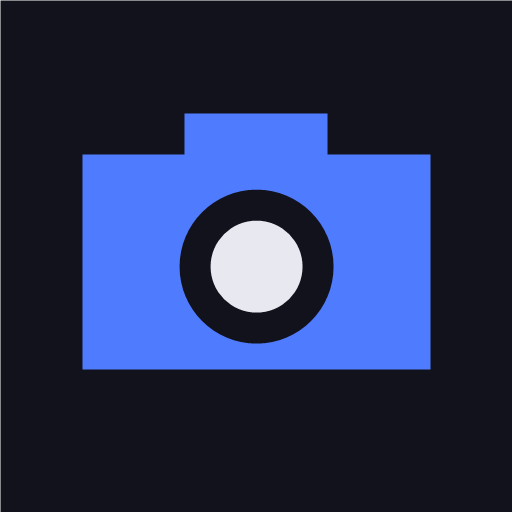
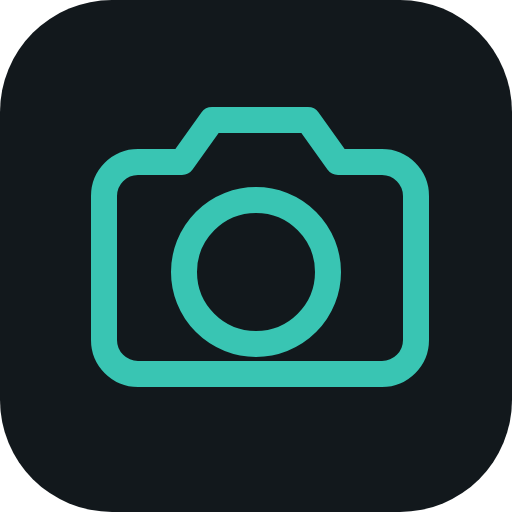
feat: 傳送中鎖住選取模式；PWA 圖示改為線條風格
1. 傳送中鎖住選取
   刪除本來就被擋（正在送的那張被刪會讓 uploadOne 拿到失效記錄），
   但使用者仍能進選取模式、選完一輪才發現不能刪。改為三層防護：
   - refreshBadge 在傳送中把「選取」鍵停用並加上 title 說明，
     一眼看出不能按（放在 flushing 分支之前，那個分支會提早 return）
   - enterSelect 再擋一次並 toast 說明，指引去按「取消傳送」
   - flush 啟動時若已在選取模式就強制退出——自動重送、恢復連線續送
     都可能在使用者已進入選取模式後才啟動，留著選取列會讓人以為刪得掉

2. PWA 主畫面圖示改為線條風格
   原本是藍紫實心相機，與 v11 改用企業識別色後的 App 內部風格不一致。
   重畫為青綠 #39c5b3 線條相機，與相機控制列的 SVG 圖示同一套語彙。
   原始 SVG 一併保留（icon.svg），日後要調整不必重畫。

   另外拆出 icon-maskable-512.png：原本 any 與 maskable 共用同一張，
   但 Android 會把 maskable 裁成圓形，圓角矩形的邊角會被切掉。
   maskable 版改為滿版底色、內容縮至中央 80% 安全區。

版本號遞增至 v14（圖示檔案更換，SW 快取必須失效才會更新）。

diff --git a/public/js/queue.js b/public/js/queue.js
@@ -175,6 +175,10 @@ App.queue = (function () {
     cancelRequested = false;      // 每次開始傳送都重置，否則上一輪的取消會殘留
     var ok = 0, fail = 0, authFailed = false, cancelled = false;
 
+    // 反向情況：已在選取模式時傳送啟動了（例如自動重送、恢復連線續送）。
+    // 選取列還開著會讓人以為刪得掉，實際上刪除已被擋下，直接退出比較誠實。
+    if (selecting) { exitSelect(); }
+
     // 手動按傳送：先把「目前佇列裡的照片」逐筆標記為已確認。
     // 標記完才開始送，因此標記之後才拍的照片不在這一批裡，
     // 必須等這批送完、使用者再按一次傳送才會送出。
@@ -559,6 +563,15 @@ App.queue = (function () {
 
       var btn = $('sendNowBtn');
 
+      // 傳送中把「選取」停用並變灰，讓使用者一眼看出不能選，
+      // 而不是按下去才被 toast 擋回來。放在 flushing 分支之前——
+      // 那個分支會提早 return。
+      var selBtn = $('selectModeBtn');
+      if (selBtn) {
+        selBtn.disabled = flushing;
+        selBtn.title = flushing ? '傳送中無法選取' : '';
+      }
+
       if (flushing) {
         // 傳送中：按鈕變成「取消傳送」，讓使用者能中途停手
         //（例如選錯目錄、或臨時要先傳別批）。
@@ -619,6 +632,13 @@ App.queue = (function () {
   }
 
   function enterSelect() {
+    // 傳送中不給進選取模式。
+    // 刪除本來就被擋（正在送的那張被刪會讓 uploadOne 拿到失效記錄），
+    // 讓使用者選了一輪才發現不能刪，不如一開始就說清楚。
+    if (flushing) {
+      toast('傳送中無法選取，請先按「取消傳送」');
+      return Promise.resolve();
+    }
     selecting = true;
     picked = {};
     var bar = $('selectBar'), btn = $('selectModeBtn');

diff --git a/public/sw.js b/public/sw.js
@@ -10,7 +10,7 @@
 
 // ⚠ 這個版本號同時是畫面右上角顯示的版本（app.js 從 SW 取得後寫進標題）。
 // 改版時務必遞增，否則使用者會卡在舊版前端，而且看不出手機上跑的是哪一版。
-const CACHE = 'snapsync-shell-v13';
+const CACHE = 'snapsync-shell-v14';
 const ASSETS = [
   './',
   './index.html',
@@ -26,7 +26,8 @@ const ASSETS = [
   './js/queue.js',
   './js/app.js',
   './icon-192.png',
-  './icon-512.png'
+  './icon-512.png',
+  './icon-maskable-512.png'
 ];
 
 self.addEventListener('install', event => {

diff --git a/public/js/app.js b/public/js/app.js
@@ -11,7 +11,7 @@ App.app = (function () {
   // ⚠ 改版時要跟 sw.js 的 CACHE 版本號一起遞增，兩者必須一致。
   // 顯示在標題右側，讓現場回報問題時能直接確認手機上跑的是哪一版——
   // PWA 會快取前端資源，「我已經部署了」不等於「使用者拿到了」。
-  var VERSION = 'v13';
+  var VERSION = 'v14';
 
   var SETTINGS_KEY = 'ss_settings';
   var settings = { maxEdge: 1600, quality: 0.8 };
